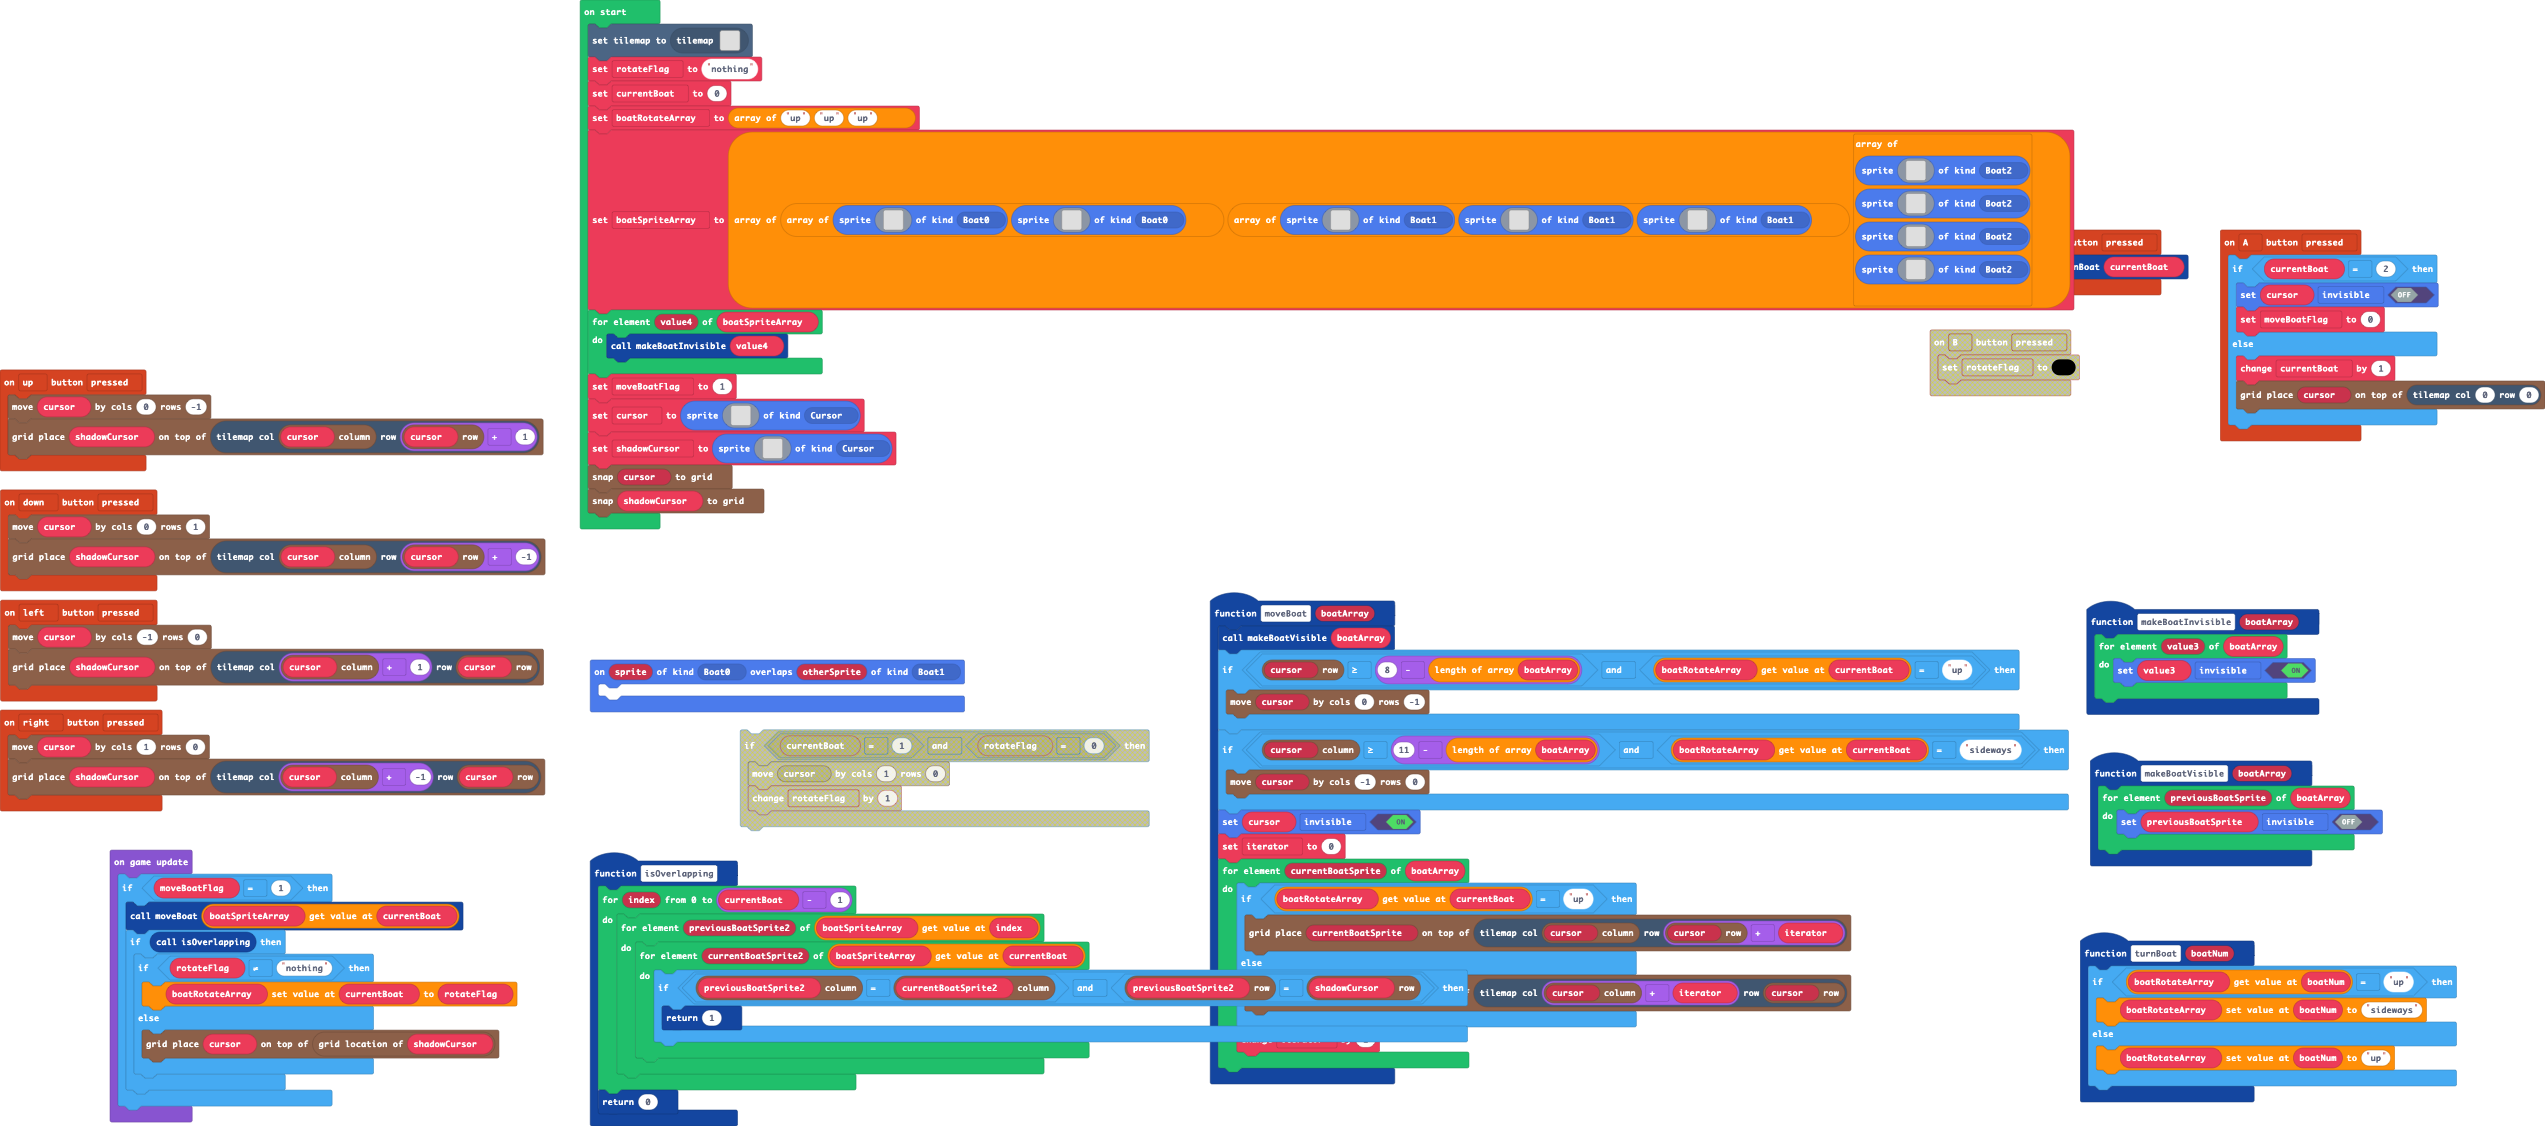
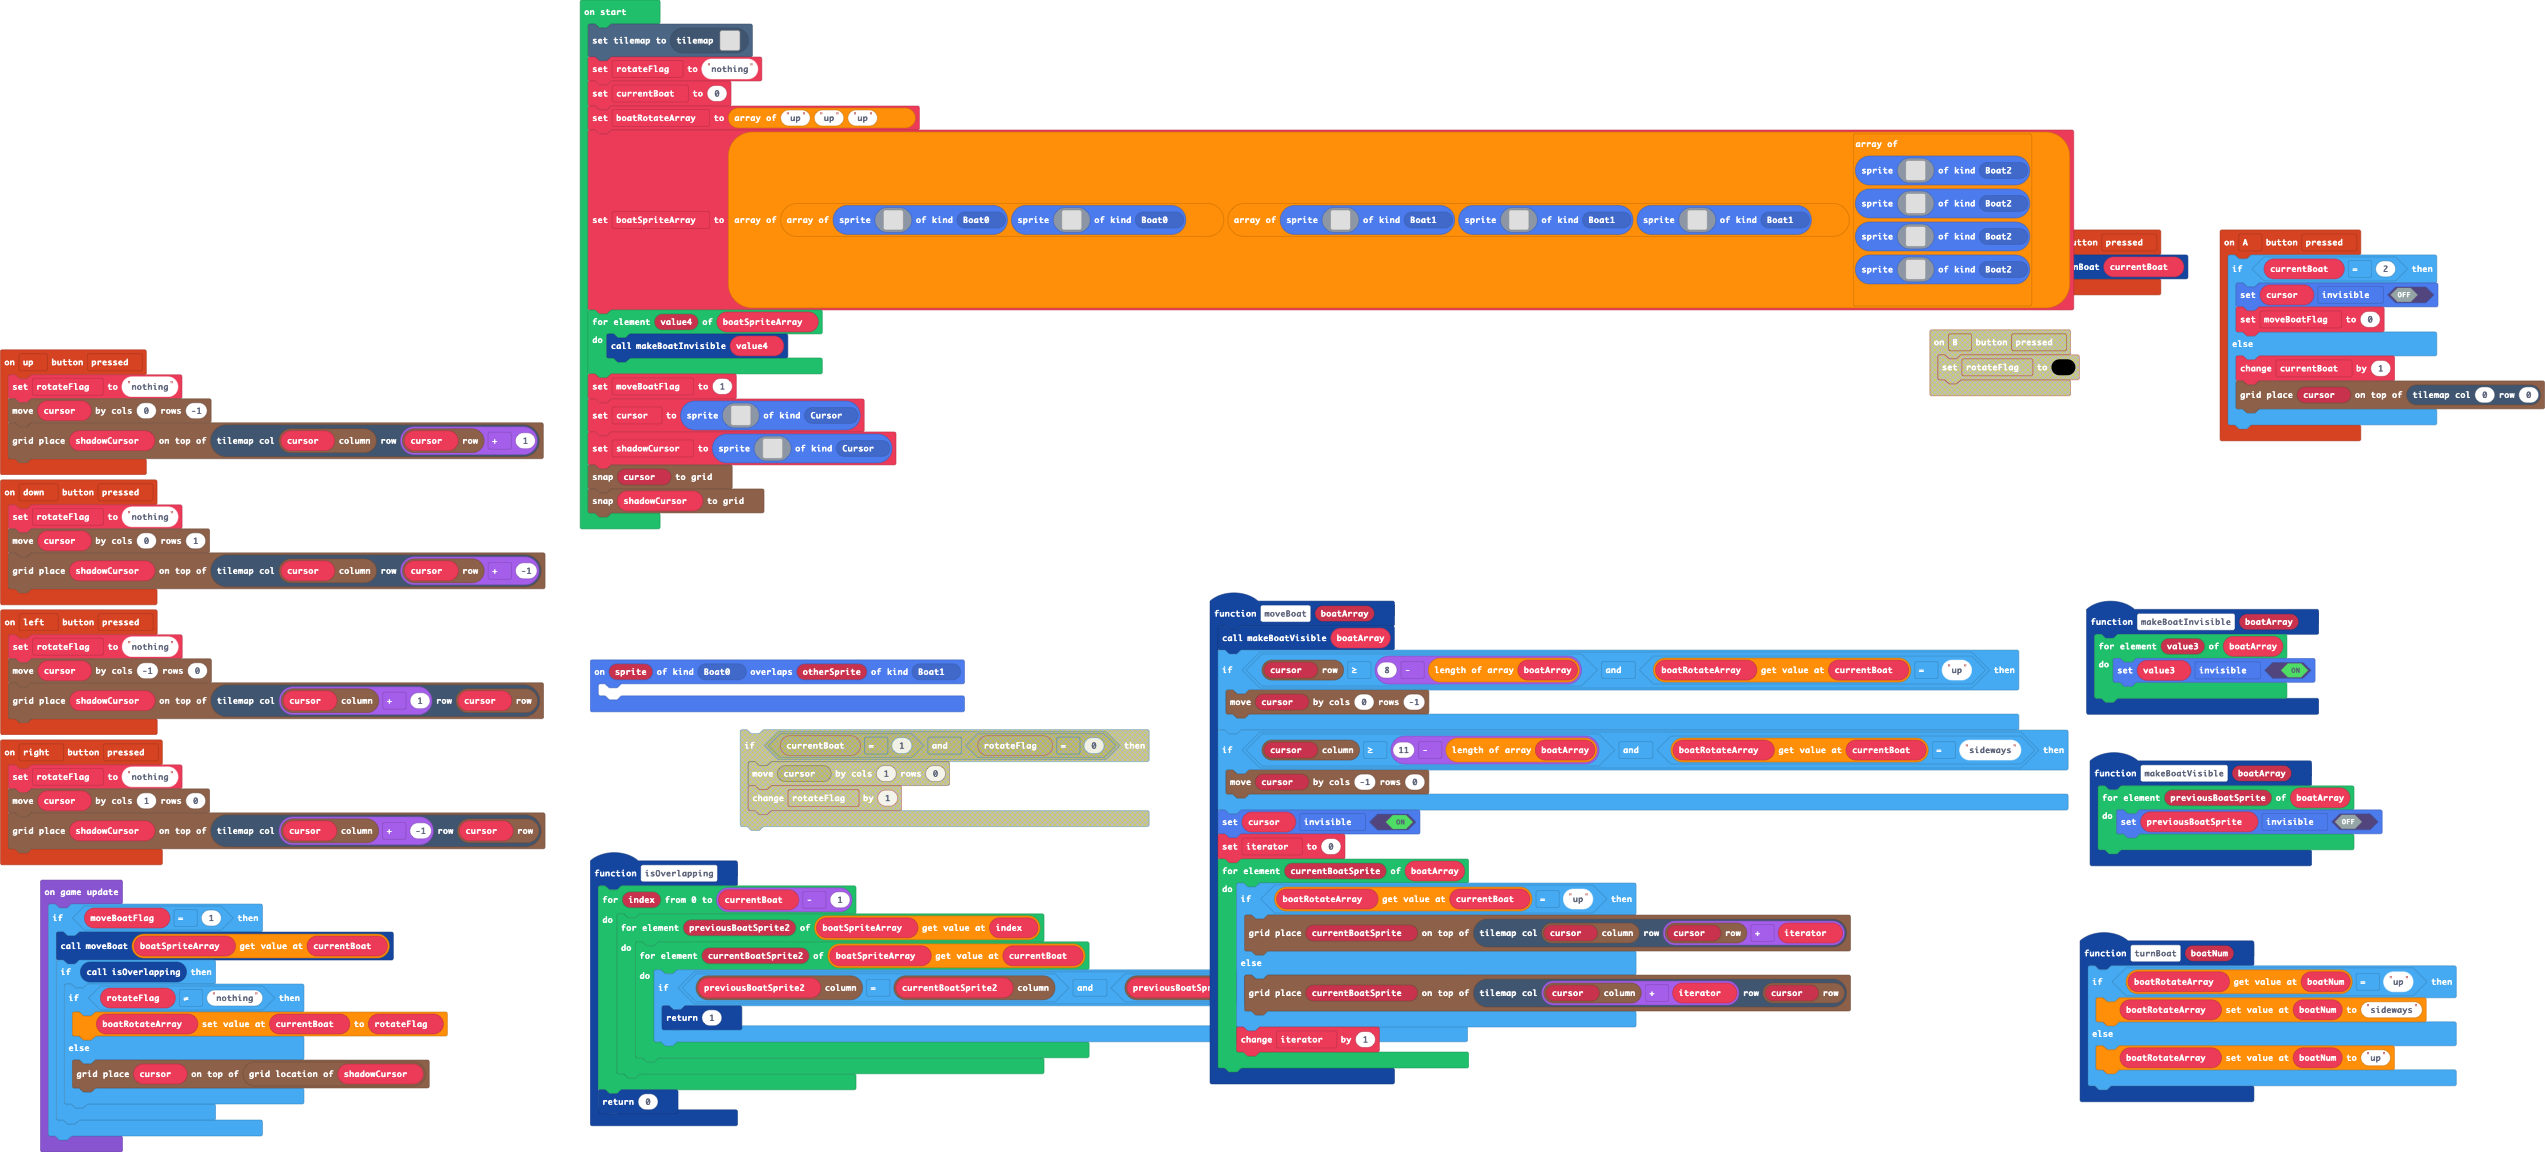
fixed rotate bug（bottom screen）

Changed region(s): [[0.0, 0.0311, 1.0, 1.0], [0.8071, 0.8082, 0.9933, 0.9947]]

diff --git a/main.ts b/main.ts
@@ -5,6 +5,7 @@ namespace SpriteKind {
     export const Boat2 = SpriteKind.create()
 }
 controller.up.onEvent(ControllerButtonEvent.Pressed, function () {
+    rotateFlag = "nothing"
     grid.move(cursor, 0, -1)
     grid.place(shadowCursor, tiles.getTileLocation(grid.spriteCol(cursor), grid.spriteRow(cursor) + 1))
 })
@@ -29,10 +30,12 @@ controller.A.onEvent(ControllerButtonEvent.Pressed, function () {
     }
 })
 controller.left.onEvent(ControllerButtonEvent.Pressed, function () {
+    rotateFlag = "nothing"
     grid.move(cursor, -1, 0)
     grid.place(shadowCursor, tiles.getTileLocation(grid.spriteCol(cursor) + 1, grid.spriteRow(cursor)))
 })
 controller.right.onEvent(ControllerButtonEvent.Pressed, function () {
+    rotateFlag = "nothing"
     grid.move(cursor, 1, 0)
     grid.place(shadowCursor, tiles.getTileLocation(grid.spriteCol(cursor) + -1, grid.spriteRow(cursor)))
 })
@@ -56,6 +59,7 @@ function moveBoat (boatArray: any[]) {
     }
 }
 controller.down.onEvent(ControllerButtonEvent.Pressed, function () {
+    rotateFlag = "nothing"
     grid.move(cursor, 0, 1)
     grid.place(shadowCursor, tiles.getTileLocation(grid.spriteCol(cursor), grid.spriteRow(cursor) + -1))
 })
@@ -90,8 +94,9 @@ let moveBoatFlag = 0
 let boatSpriteArray: Sprite[][] = []
 let boatRotateArray: string[] = []
 let currentBoat = 0
+let rotateFlag = ""
 tiles.setCurrentTilemap(tilemap`level1`)
-let rotateFlag = "nothing"
+rotateFlag = "nothing"
 currentBoat = 0
 boatRotateArray = ["up", "up", "up"]
 boatSpriteArray = [[sprites.create(img`
